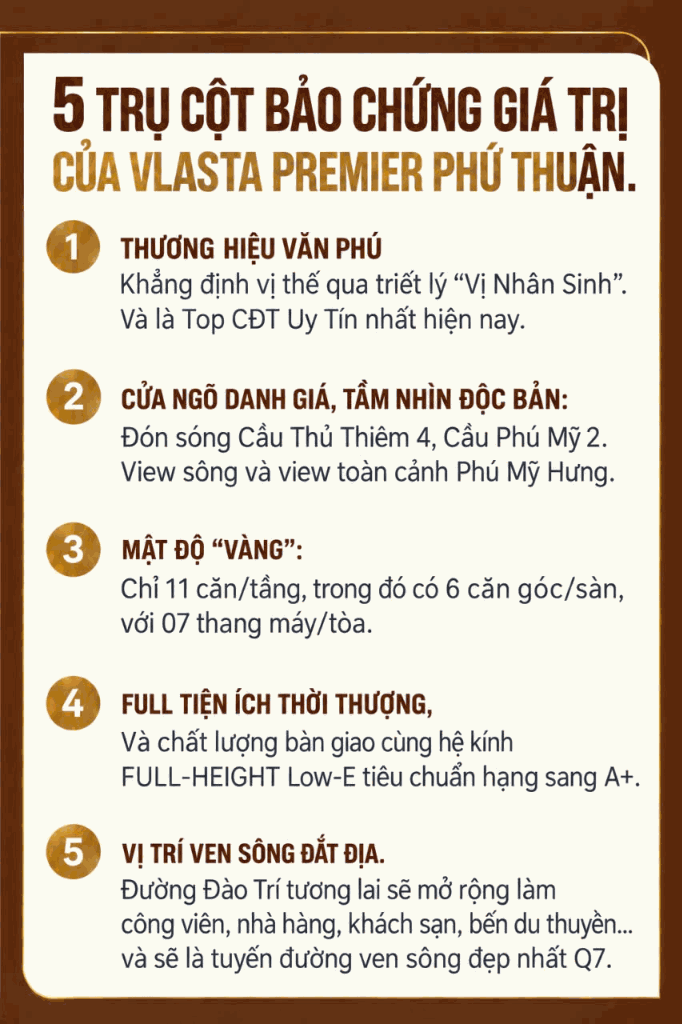
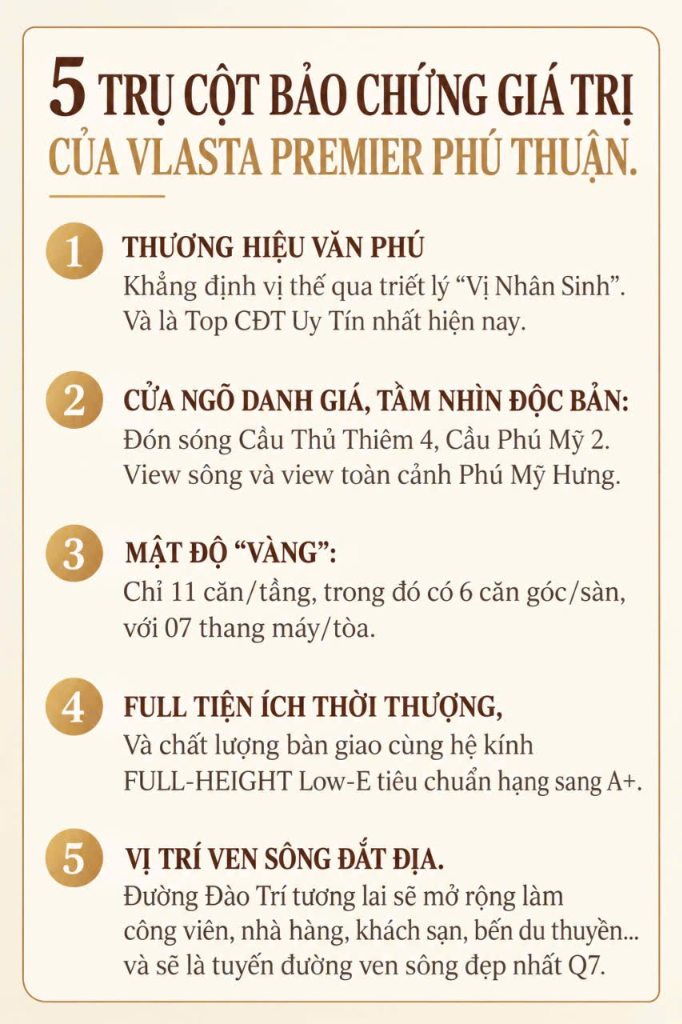
feat(green-skyline): sync 100% staging to production with intro video autoplay

diff --git a/du-an/vlasta-premier/index.html b/du-an/vlasta-premier/index.html
@@ -27,7 +27,7 @@
 <link rel="preload" as="image" href="/assets/vlasta-premier/media/vlasta-mobile-poster.jpg" media="(max-width: 767px)" fetchpriority="high" />
 <link rel="preload" as="image" href="/assets/vlasta-premier/media/vlasta-desktop-poster.jpg" media="(min-width: 768px)" fetchpriority="high" />
 <link rel="preload" as="image" href="/assets/vlasta-premier/media/vlasta-nhan-sinh-nhu-mong.jpg" fetchpriority="high" />
-<link rel="preload" as="image" href="/assets/vlasta-premier/media/vlasta-5-tru-cot.png?v=3" fetchpriority="high" />
+<link rel="preload" as="image" href="/assets/vlasta-premier/media/vlasta-5-tru-cot-v4.png?v=4" fetchpriority="high" />
 	<!-- This site is optimized with the Yoast SEO plugin v21.5 - https://yoast.com/wordpress/plugins/seo/ -->
 	<title>Vlasta Premier - Website Chính Thức</title>
 	<link rel="canonical" href="#top" />
@@ -1091,7 +1091,7 @@ p {
 
 	<div class="img has-hover x md-x lg-x y md-y lg-y" id="image_5_tru_cot">
 								<div class="img-inner dark" >
-			<img loading="eager" fetchpriority="high" decoding="async" width="682" height="1024" src="/assets/vlasta-premier/media/vlasta-5-tru-cot.png?v=3" class="attachment-original size-original" alt="5 Trụ cột bảo chứng giá trị của Vlasta Premier Phú Thuận" />						
+			<img loading="eager" fetchpriority="high" decoding="async" width="682" height="1024" src="/assets/vlasta-premier/media/vlasta-5-tru-cot-v4.png?v=4" class="attachment-original size-original" alt="5 Trụ cột bảo chứng giá trị của Vlasta Premier Phú Thuận" />						
 					</div>
 								
 <style>
@@ -1242,110 +1242,17 @@ p {
 	
 
 	<div id="col-1791745474" class="col medium-12 small-12 large-12" data-animate="fadeInLeft">
-		<div class="col-inner vlasta-kn-wrap">
-			<svg class="vlasta-kn-bg-art vlasta-kn-bg-art--tr" viewBox="0 0 130 220" fill="none" xmlns="http://www.w3.org/2000/svg" aria-hidden="true">
-				<g stroke="#c9b497" stroke-width="1" opacity="0.55">
-					<polygon points="45,0 105,36 105,150 45,114" />
-					<polygon points="53,12 97,38 97,138 53,112" />
-					<polygon points="80,25 130,55 130,200 80,170" />
-					<polygon points="88,37 122,57 122,188 88,168" />
-				</g>
-			</svg>
-			<svg class="vlasta-kn-bg-art vlasta-kn-bg-art--bl" viewBox="0 0 110 150" fill="none" xmlns="http://www.w3.org/2000/svg" aria-hidden="true">
-				<g stroke="#c9b497" stroke-width="1" opacity="0.55">
-					<polygon points="0,25 55,58 55,150 0,117" />
-					<polygon points="8,37 47,60 47,138 8,115" />
-				</g>
-			</svg>
-			<div id="text-2105920118" class="text vlasta-kn-card">
-				<h3 class="vlasta-kn-card__title">Kết nối giao thông thuận lợi</h3>
-				<div class="vlasta-kn-card__line"></div>
-				<p class="vlasta-kn-card__lead">Từ Vlasta Premier – Phú Thuận, ba cây cầu huyết mạch Phú Mỹ – Thủ Thiêm 4 – Phú Mỹ 2, Đường Nguyễn Tất Thành dự kiến mở rộng 8 làn xe… đang và sẽ tiếp tục kiến tạo những nhịp nối chiến lược, đưa cư dân kết nối nhanh đến mọi trung tâm phồn hoa:</p>
-				<p class="vlasta-kn-card__item"><span class="vlasta-kn-card__time">✦ 10 PHÚT: </span>Để chạm tới nhịp sống quốc tế tại Phú Mỹ Hưng, Lotte, Unilever</p>
-				<p class="vlasta-kn-card__item"><span class="vlasta-kn-card__time">✦ 15 PHÚT: </span>Kết nối Quận 1 – trung tâm hành chính và văn hóa của thành phố</p>
-				<p class="vlasta-kn-card__item"><span class="vlasta-kn-card__time">✦ 20 PHÚT: </span>Đến Thủ Đức – Thủ Thiêm, trung tâm tài chính – công nghệ mới</p>
-				<p class="vlasta-kn-card__item vlasta-kn-card__item--last"><span class="vlasta-kn-card__time">✦ 45 PHÚT: </span>Tới Sân bay Long Thành, cửa ngõ giao thương quốc tế</p>
+		<div class="col-inner dark">
+			<div id="text-2105920118" class="text blue-col">
+				<h3 style="text-align: left; margin-bottom: 12px;"><span style="font-size: 130%; color: #ffd67d;">Kết nối giao thông thuận lợi</span></h3>
+				<p style="text-align: justify; padding-bottom: 12px; margin-bottom: 12px; border-bottom: 1px solid rgba(197, 139, 67, 0.28);">Từ Vlasta Premier – Phú Thuận, ba cây cầu huyết mạch Phú Mỹ – Thủ Thiêm 4 – Phú Mỹ 2, Đường Nguyễn Tất Thành dự kiến mở rộng 8 làn xe… đang và sẽ tiếp tục kiến tạo những nhịp nối chiến lược, đưa cư dân kết nối nhanh đến mọi trung tâm phồn hoa:</p>
+				<p style="text-align: justify; padding-bottom: 12px; margin-bottom: 12px; border-bottom: 1px solid rgba(197, 139, 67, 0.28);"><span style="font-weight: 400;"><span style="color: #ffd67d;">✦ <strong>10 PHÚT: </strong></span>Để chạm tới nhịp sống quốc tế tại Phú Mỹ Hưng, Lotte, Unilever</span></p>
+				<p style="text-align: justify; padding-bottom: 12px; margin-bottom: 12px; border-bottom: 1px solid rgba(197, 139, 67, 0.28);"><span style="font-weight: 400;"><strong><span style="color: #ffd67d;">✦ 15 PHÚT: </span></strong>Kết nối Quận 1 – trung tâm hành chính và văn hóa của thành phố</span></p>
+				<p style="text-align: justify; padding-bottom: 12px; margin-bottom: 12px; border-bottom: 1px solid rgba(197, 139, 67, 0.28);"><span style="font-weight: 400;"><span style="color: #ffd67d;">✦ <strong>20 PHÚT: </strong></span>Đến Thủ Đức &#8211; Thủ Thiêm, trung tâm tài chính &#8211; công nghệ mới</span></p>
+				<p style="text-align: justify; margin-bottom: 0;"><span style="font-weight: 400;"><span style="color: #ffd67d;">✦ <strong>45 PHÚT:</strong></span> Tới Sân bay Long Thành, cửa ngõ giao thương quốc tế</span></p>
 			</div>
-			<style>
-				.vlasta-kn-wrap {
-					position: relative;
-					padding: 14px 4px 18px 4px;
-				}
-				.vlasta-kn-bg-art {
-					position: absolute;
-					pointer-events: none;
-					z-index: 0;
-				}
-				.vlasta-kn-bg-art--tr {
-					top: -12px;
-					right: -15px;
-					width: 115px;
-					height: auto;
-				}
-				.vlasta-kn-bg-art--bl {
-					bottom: -10px;
-					left: -15px;
-					width: 90px;
-					height: auto;
-				}
-				#text-2105920118.vlasta-kn-card {
-					position: relative;
-					z-index: 1;
-					width: 100%;
-					background: #faf5eb;
-					border: 1.5px solid #5c3721;
-					border-radius: 18px;
-					padding: 26px 22px 26px 22px !important;
-					box-shadow: 0 8px 24px rgba(92, 55, 33, 0.08);
-					box-sizing: border-box;
-				}
-				#text-2105920118.vlasta-kn-card::before {
-					content: "";
-					position: absolute;
-					top: 4px;
-					right: 4px;
-					bottom: 4px;
-					left: 4px;
-					border: 1px solid rgba(197, 155, 95, 0.35);
-					border-radius: 14px;
-					pointer-events: none;
-				}
-				.vlasta-kn-card__title {
-					font-family: "Times New Roman", Georgia, serif !important;
-					font-size: 27px !important;
-					line-height: 1.25 !important;
-					font-weight: 700 !important;
-					color: #4a2d18 !important;
-					text-align: left !important;
-					margin: 0 0 12px 0 !important;
-				}
-				.vlasta-kn-card__line {
-					width: 96px;
-					height: 1.5px;
-					background: #c59b5f;
-					margin: 0 0 16px 0;
-				}
-				.vlasta-kn-card__lead,
-				.vlasta-kn-card__item {
-					font-family: Arial, Helvetica, sans-serif !important;
-					font-size: 16.5px !important;
-					line-height: 1.58 !important;
-					color: #4a3728 !important;
-					text-align: justify !important;
-					margin: 0 0 14px 0 !important;
-				}
-				.vlasta-kn-card__item--last {
-					margin-bottom: 0 !important;
-				}
-				.vlasta-kn-card__time {
-					color: #c5913a !important;
-					font-weight: 700 !important;
-				}
-			</style>
 		</div>
 	</div>
-
-	
 </div>
 	<div id="gap-688805434" class="gap-element clearfix" style="display:block; height:auto;">
 		
@@ -1364,7 +1271,11 @@ p {
 #section_409140964 {
   padding-top: 24px;
   padding-bottom: 0px !important;
-  background-color: rgb(248, 247, 242);
+  background-color: #faf5eb !important;
+}
+#section_409140964 .section-bg {
+  background-color: #faf5eb !important;
+  background-image: none !important;
 }
 #section_409140964 .ux-shape-divider--top svg {
   height: 150px;
@@ -1398,7 +1309,7 @@ p {
 			.vlasta-nk-intro {
 				position: relative;
 				width: 100%;
-				background-color: #f3ede0;
+				background-color: #faf5eb;
 				padding: 28px 26px 8px 26px;
 				overflow: hidden;
 				box-sizing: border-box;
@@ -1970,12 +1881,12 @@ p {
 	</section>
 
 <span class="scroll-to" data-label="Scroll to: #banggia" data-bullet="true" data-link="#banggia" data-title="Bảng Giá"><a name="banggia"></a></span>
-	<div id="section_gia_ban_heading" style="background-color: #fbf6eb; padding: 28px 15px 12px 15px; text-align: center;">
+	<div id="section_gia_ban_heading" style="background-color: #faf5eb; padding: 28px 15px 12px 15px; text-align: center;">
 		<h2 style="text-align: center; margin: 0;"><span style="font-size: 150%; color: #5d3722;">GIÁ BÁN VÀ CHÍNH SÁCH BÁN HÀNG</span></h2>
 	</div>
 	<div class="img has-hover x md-x lg-x y md-y lg-y" id="image_5_chinh_sach_ban_hang" style="width: 100%; margin: 0; padding: 0;">
 		<div class="img-inner dark">
-			<img loading="lazy" decoding="async" width="682" height="1024" src="/assets/vlasta-premier/media/vlasta-gia-ban-csbh.png?v=1" class="attachment-original size-original" alt="Giá bán và Chính Sách Bán Hàng Vlasta Premier Phú Thuận" style="width: 100%; height: auto; display: block;" />
+			<img loading="lazy" decoding="async" width="682" height="1024" src="/assets/vlasta-premier/media/vlasta-gia-ban-csbh-v2.png?v=2" class="attachment-original size-original" alt="Giá bán và Chính Sách Bán Hàng Vlasta Premier Phú Thuận" style="width: 100%; height: auto; display: block;" />
 		</div>
 	</div>
 	<div class="img has-hover x md-x lg-x y md-y lg-y" id="image_doi_tac" style="width: 100%; margin: 0; padding: 0;">
